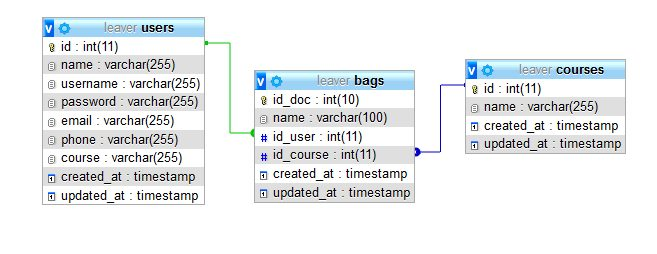
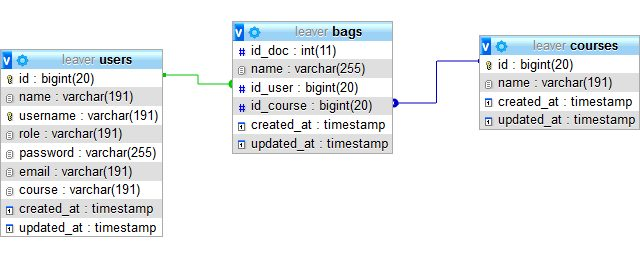
Database Design Update

diff --git a/database/seeds/UserSeeder.php b/database/seeds/UserSeeder.php
@@ -21,7 +21,7 @@ class UserSeeder extends Seeder
                 'name' => $faker->name,
                 'username' => $faker->username,
                 'role' => 'student',
-                'password' => Hash::make('12345'),
+                'password' => Hash::make('1234567'),
                 'email' => $faker->email,
                 // 'phone' => $faker->phoneNumber,
                 'course' => ''

diff --git a/database/migrations/2019_11_27_061850_create_users_table.php b/database/migrations/2019_11_27_061850_create_users_table.php
@@ -21,7 +21,7 @@ class CreateUsersTable extends Migration
             $table->string('password', 255);
             $table->string('email');
             // $table->string('phone');
-            $table->string('course');
+            $table->string('course')->nullable();
             $table->timestamps();
         });
     }
